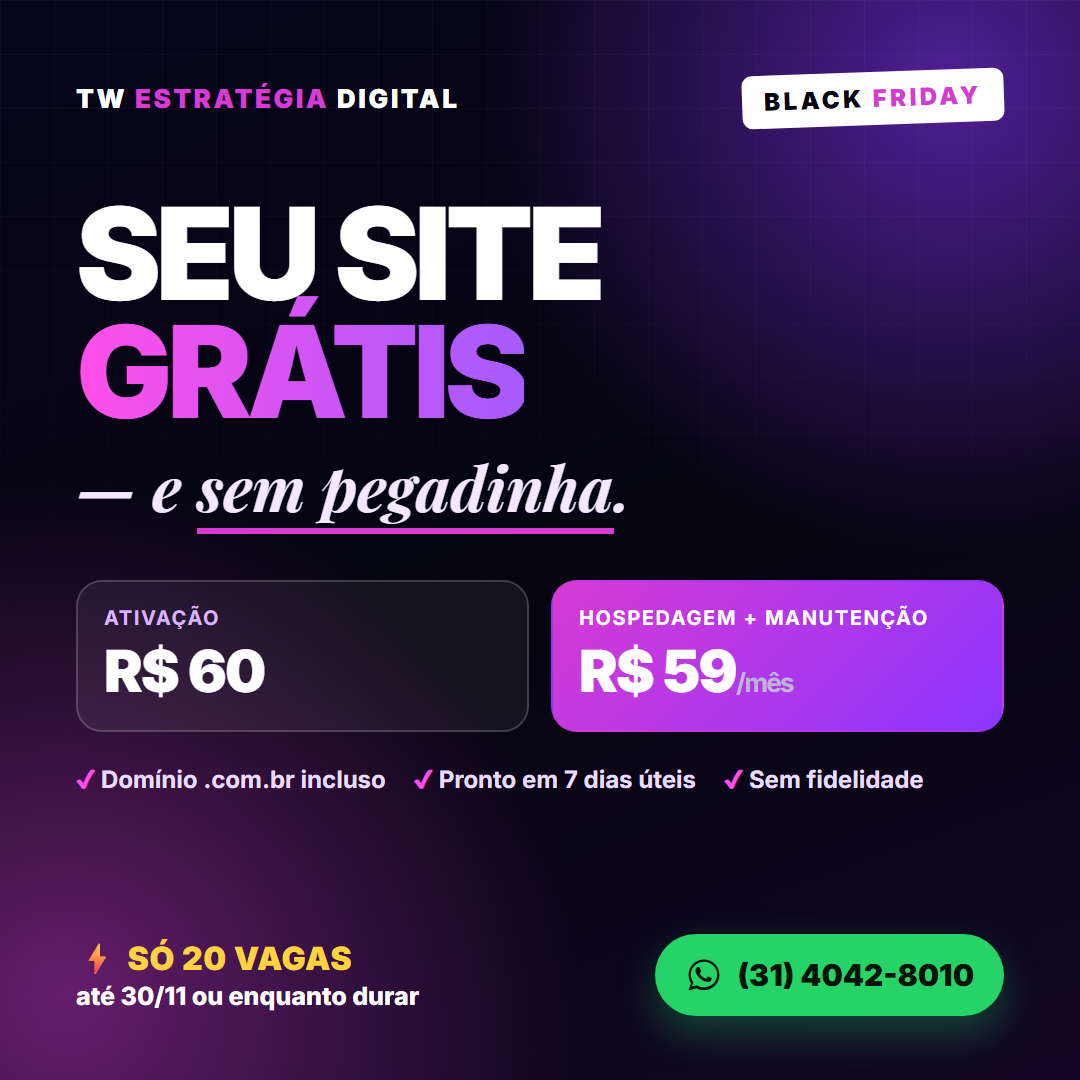
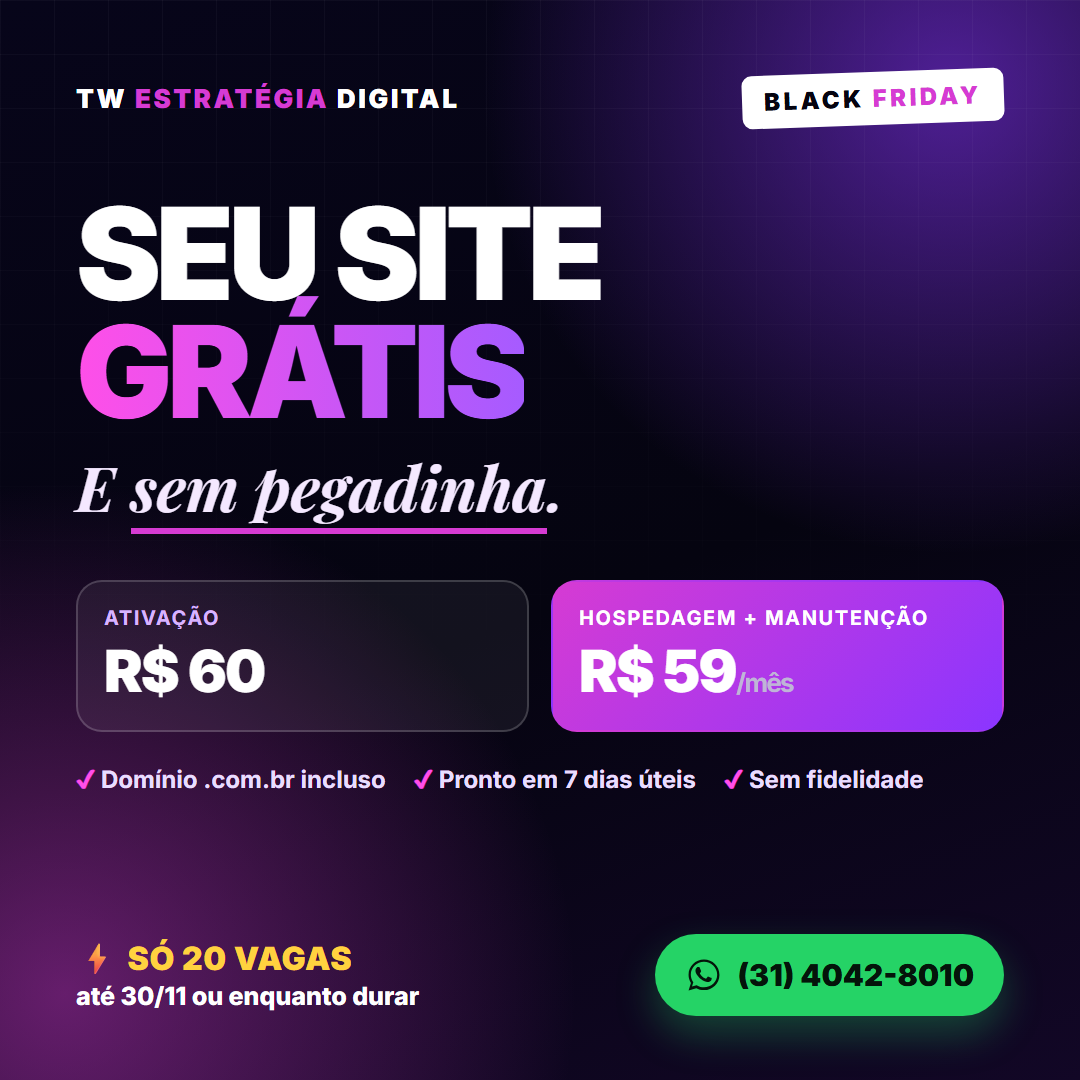
Site gratis: tira o travessao do subtitulo e atualiza a imagem de compartilhamento

Changed region(s): [[0.0611, 0.4278, 0.5806, 0.5194]]

diff --git a/site-gratis/index.html b/site-gratis/index.html
@@ -66,7 +66,7 @@
     <div>
       <span class="pill">Black <b>Friday</b></span>
       <h1>Seu site<br><span class="g">grátis</span></h1>
-      <div class="sub">— e sem pegadinha.</div>
+      <div class="sub">E sem pegadinha.</div>
       <p>A TW cria o site da sua empresa sem custo de desenvolvimento. Você paga <strong>R$ 60 de ativação</strong>, que já inclui o domínio .com.br, e depois só a hospedagem com manutenção, <strong>a partir de R$ 59/mês, sem fidelidade</strong>.</p>
       <div class="actions">
         <a class="btn btn-wa" href="https://wa.me/553140428010?text=Quero%20meu%20site%20gr%C3%A1tis%20da%20Black%20Friday" target="_blank" rel="noopener">📲 Quero meu site grátis</a>
